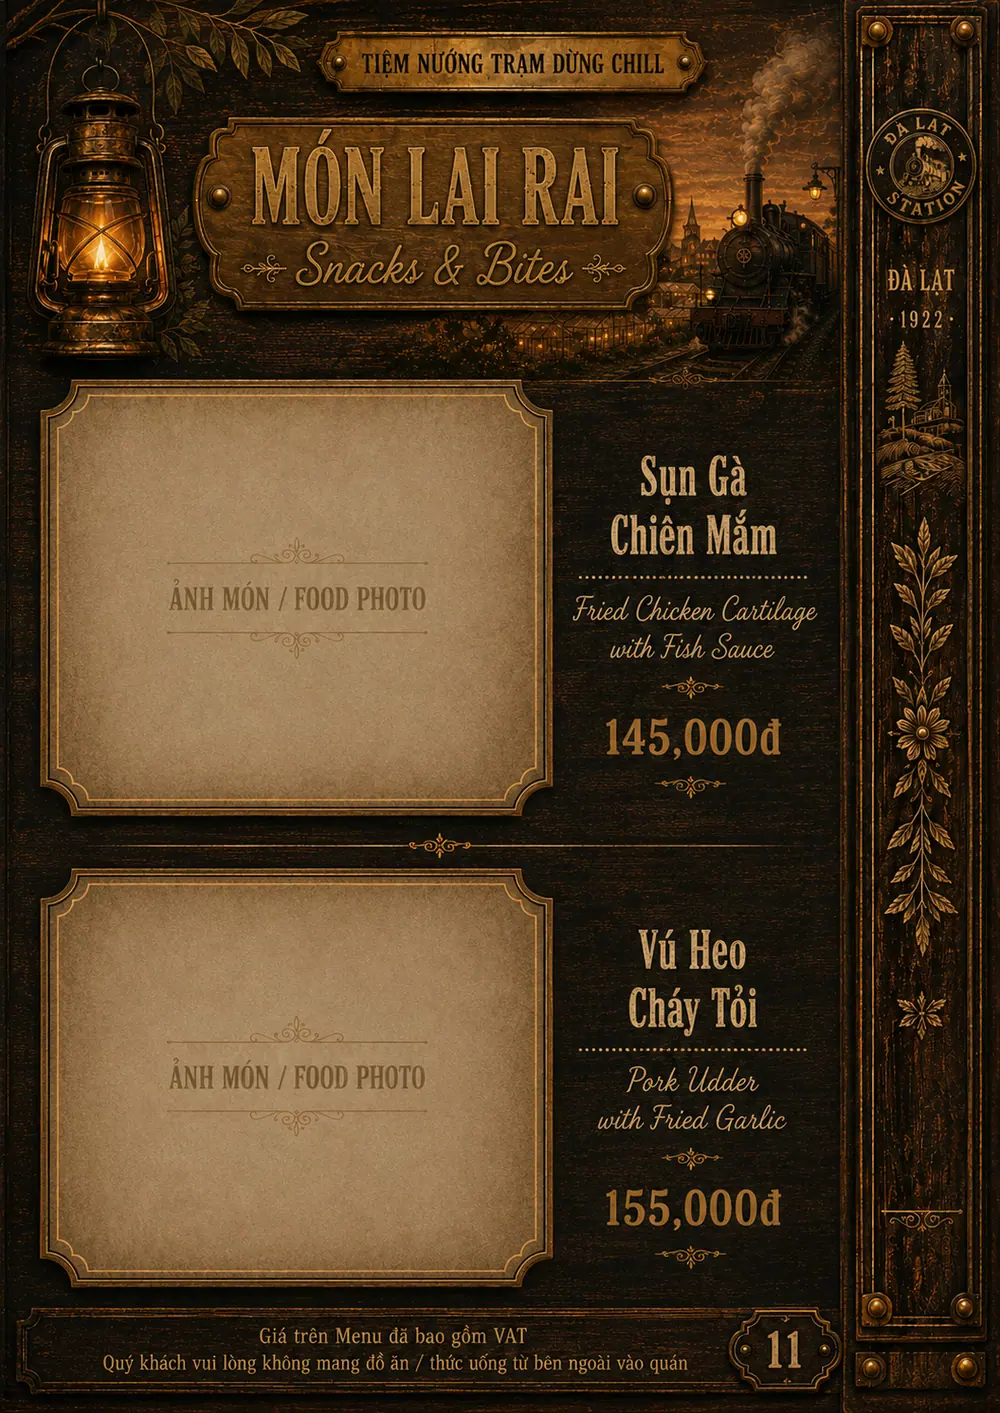
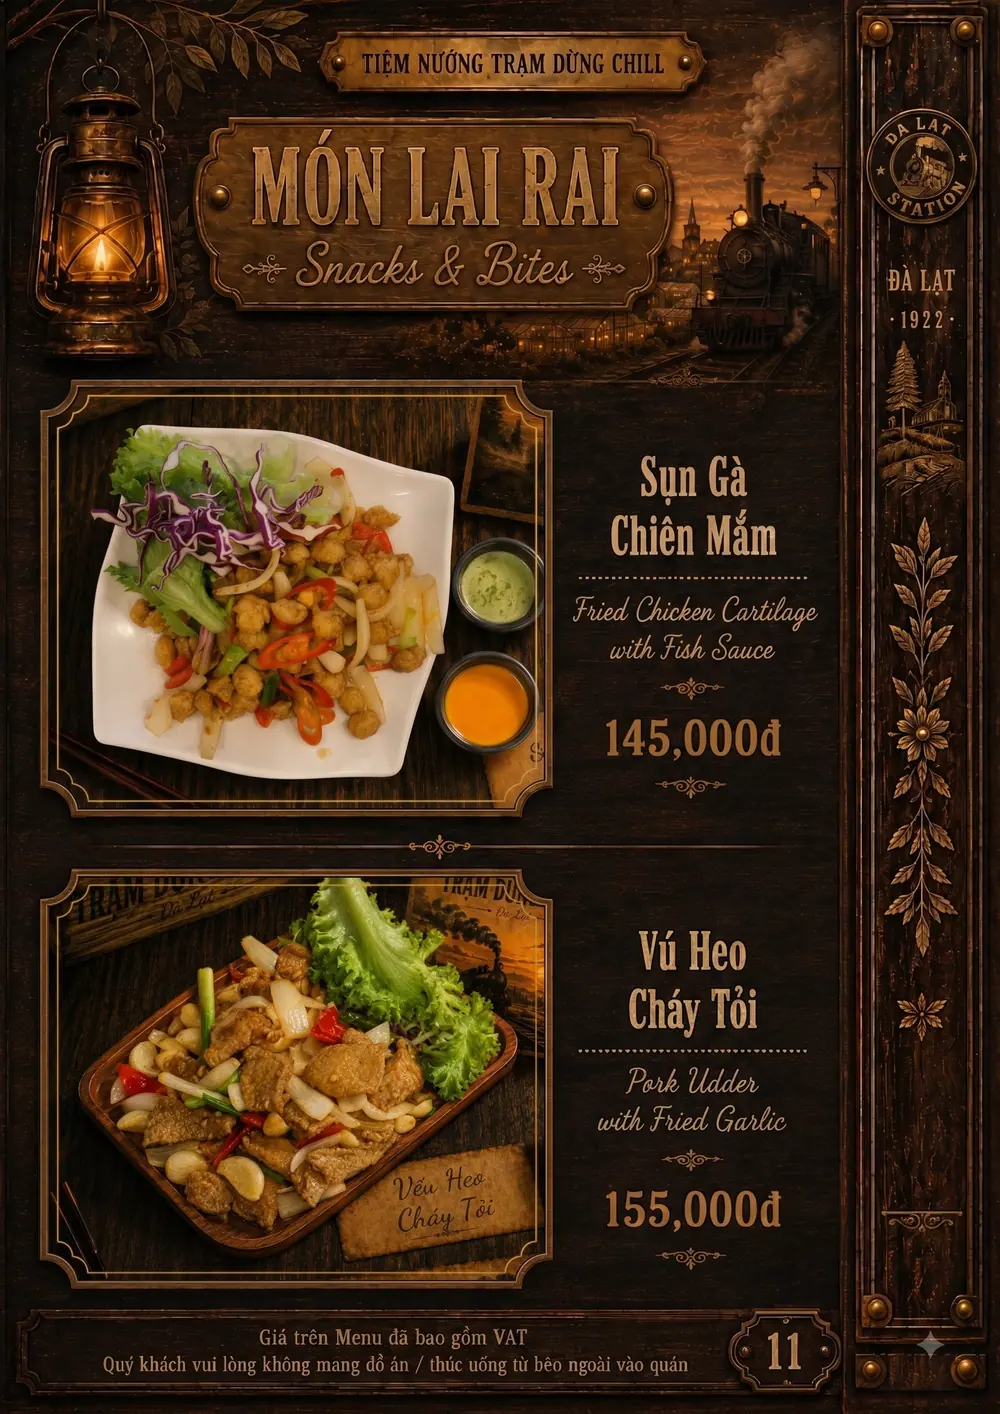
feat(menu): trang lai rai 11 da co anh mon — 26/26 trang khong con o trong
Trang 12 (menu so 11) gio co anh that cho Sun Ga Chien Mam 145K va Vu Heo Chay
Toi 155K. Day la trang cuoi cung con o "ANH MON / FOOD PHOTO" trong — ca quyen
26 trang nay da du anh.

Anh goc rong 1728px (cac trang khac 1055px) nen trang nay xuat them ban 1600w,
tong 79 file webp thay vi 78.

CON LOI CHINH TA tren anh: dong cuoi ghi "thuc uong tu BEO ngoai vao quan",
dung ra la "ben ngoai". Ban Gemini con lai sai nang hon ("da bao gom VAT" thanh
"dà bao gốm VAT", "do an" thanh "dồ án") nen chon ban nay. Chu nho cuoi trang,
tren web it ai doc ky, nhung neu dem menu di in thi phai sua truoc.

seo-geo-verify: 32/32 PASS

diff --git a/menu.html b/menu.html
@@ -1289,10 +1289,10 @@
                     <figcaption class="flip-page-caption">Trang 11/26 — Món Lai Rai</figcaption>
                 </figure>
                 <figure class="flip-page" data-page="12" data-group="laurai" data-group-label="Món Lai Rai" data-group-i18n="flip.group.snacks">
-                    <img src="assets/menu-pages/menu-quan-nuong-da-lat-12-mon-lai-rai-sun-ga-chien-mam-vu-heo-chay-toi-1000.webp?v=0b0f20bd"
-                         srcset="assets/menu-pages/menu-quan-nuong-da-lat-12-mon-lai-rai-sun-ga-chien-mam-vu-heo-chay-toi-560.webp?v=afc1ede3 560w, assets/menu-pages/menu-quan-nuong-da-lat-12-mon-lai-rai-sun-ga-chien-mam-vu-heo-chay-toi-1000.webp?v=0b0f20bd 1000w"
+                    <img src="assets/menu-pages/menu-quan-nuong-da-lat-12-mon-lai-rai-sun-ga-chien-mam-vu-heo-chay-toi-1600.webp?v=e1f8dc92"
+                         srcset="assets/menu-pages/menu-quan-nuong-da-lat-12-mon-lai-rai-sun-ga-chien-mam-vu-heo-chay-toi-560.webp?v=4a5123e7 560w, assets/menu-pages/menu-quan-nuong-da-lat-12-mon-lai-rai-sun-ga-chien-mam-vu-heo-chay-toi-1000.webp?v=be03b226 1000w, assets/menu-pages/menu-quan-nuong-da-lat-12-mon-lai-rai-sun-ga-chien-mam-vu-heo-chay-toi-1600.webp?v=e1f8dc92 1600w"
                          sizes="(min-width: 900px) 46vw, 92vw"
-                         width="1055" height="1491"
+                         width="1728" height="2444"
                          alt="Món lai rai: sụn gà chiên mắm, vú heo cháy tỏi"
                          loading="lazy" decoding="async">
                     <figcaption class="flip-page-caption">Trang 12/26 — Món Lai Rai</figcaption>
